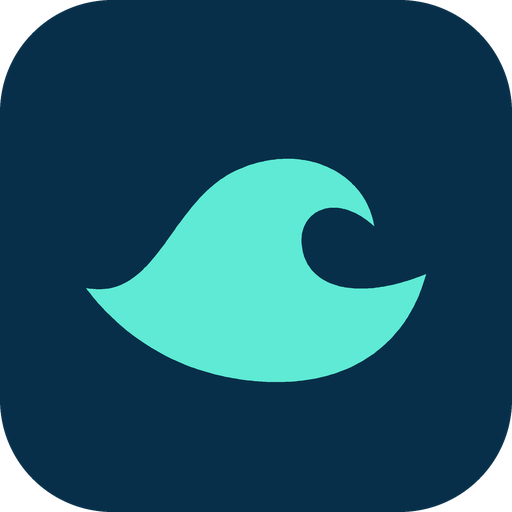
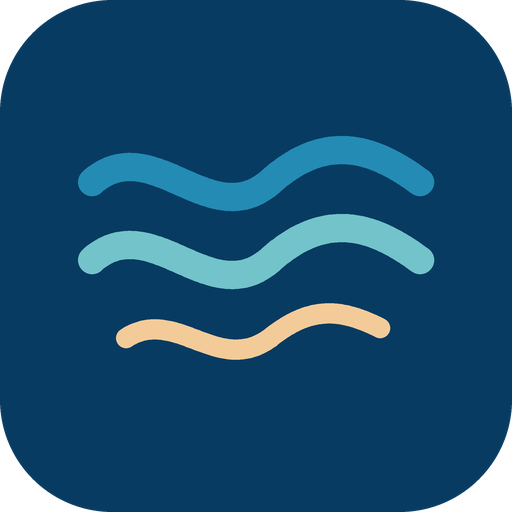
Refine SEA identity with ocean ripples and warm reflections

Changed region(s): [[0.125, 0.25, 0.875, 0.75]]

diff --git a/scripts/build_brand.py b/scripts/build_brand.py
@@ -1,30 +1,29 @@
-"""Render SEA's original vector wave mark and PNG exports. Requires Pillow (build only)."""
+"""Render the original SEA sea-surface mark. Pillow is needed only for PNG builds."""
 from pathlib import Path
 from PIL import Image, ImageDraw, ImageFont
 
 ROOT = Path(__file__).resolve().parents[1]
 ASSETS = ROOT / "assets"
-BACKGROUND = "#082F49"
-FOREGROUND = "#5EEAD4"
-START = (43, 157)
-CURVES = [((80, 164), (85, 111), (121, 97)),
-          ((153, 84), (183, 100), (187, 126)),
-          ((167, 108), (148, 119), (151, 137)),
-          ((154, 157), (179, 164), (213, 150)),
-          ((204, 184), (177, 204), (139, 204)),
-          ((97, 204), (64, 185), START)]
+BACKGROUND = "#083B61"
+FOREGROUND = "#72C3CA"
+# Open, flowing wave lines; no closed curl or claw-like silhouette.
+WAVES = [
+    ((46, 91), [((76, 65), (105, 117), (135, 91)), ((164, 65), (188, 75), (210, 91))], "#238BB4", 14),
+    ((46, 130), [((76, 104), (105, 156), (135, 130)), ((164, 104), (188, 114), (210, 130))], FOREGROUND, 14),
+    ((63, 169), [((88, 153), (109, 188), (135, 169)), ((155, 153), (170, 154), (190, 164))], "#F2CB99", 10),
+]
 
 
-def wave_points():
-    points = [START]
-    p0 = START
-    for p1, p2, p3 in CURVES:
-        for step in range(1, 65):
-            t = step / 64
-            points.append(tuple((1-t)**3*p0[i] + 3*(1-t)**2*t*p1[i] +
+def points(start, curves):
+    result = [start]
+    p0 = start
+    for p1, p2, p3 in curves:
+        for step in range(1, 97):
+            t = step / 96
+            result.append(tuple((1-t)**3*p0[i] + 3*(1-t)**2*t*p1[i] +
                                 3*(1-t)*t*t*p2[i] + t**3*p3[i] for i in (0, 1)))
         p0 = p3
-    return points
+    return result
 
 
 def icon(size):
@@ -32,7 +31,12 @@ def icon(size):
     image = Image.new("RGBA", (size * 4, size * 4))
     draw = ImageDraw.Draw(image)
     draw.rounded_rectangle((0, 0, size*4-1, size*4-1), radius=56*scale, fill=BACKGROUND)
-    draw.polygon([(x*scale, (y-13)*scale) for x, y in wave_points()], fill=FOREGROUND)
+    for start, curves, color, width in WAVES:
+        coords = [(x*scale, y*scale) for x, y in points(start, curves)]
+        draw.line(coords, fill=color, width=round(width*scale), joint="curve")
+        radius = width*scale/2
+        for x, y in coords:
+            draw.ellipse((x-radius, y-radius, x+radius, y+radius), fill=color)
     return image.resize((size, size), Image.Resampling.LANCZOS)
 
 
@@ -45,13 +49,15 @@ def font(size):
 
 def main():
     ASSETS.mkdir(exist_ok=True)
-    path = f"M{START[0]} {START[1]} " + " ".join(
-        "C" + " ".join(str(n) for point in curve for n in point) for curve in CURVES) + " Z"
+    paths = []
+    for start, curves, color, width in WAVES:
+        path = f"M{start[0]} {start[1]} " + " ".join(
+            "C" + " ".join(str(n) for point in curve for n in point) for curve in curves)
+        paths.append(f'<path d="{path}" fill="none" stroke="{color}" stroke-width="{width}" stroke-linecap="round"/>')
     (ASSETS / "sea-icon.svg").write_text(
         '<svg xmlns="http://www.w3.org/2000/svg" width="256" height="256" viewBox="0 0 256 256" role="img" aria-labelledby="title">'
-        '<title id="title">SEA wave</title>'
-        f'<rect width="256" height="256" rx="56" fill="{BACKGROUND}"/>'
-        f'<path d="{path}" transform="translate(0 -13)" fill="{FOREGROUND}"/></svg>\n', encoding="utf-8")
+        '<title id="title">SEA ocean ripples</title>'
+        f'<rect width="256" height="256" rx="56" fill="{BACKGROUND}"/>' + ''.join(paths) + '</svg>\n', encoding="utf-8")
     icon(512).save(ASSETS / "sea-icon.png")
     card = Image.new("RGB", (1280, 640), BACKGROUND)
     mark = icon(256)

diff --git a/scripts/configure_local_plugin.py b/scripts/configure_local_plugin.py
@@ -33,7 +33,7 @@ def configure(plugin: Path, database: Path):
     manifest["interface"].update(displayName="SEA", shortDescription="Learn from tasks through chat.",
         longDescription="Local preferences, project experience, and evidence-based candidate comparison. No telemetry.",
         developerName="Li Siye", defaultPrompt=["Use SEA for this task.", "What has SEA learned from this project?"],
-        brandColor="#0EA5B7", composerIcon="./assets/sea-icon.png", logo="./assets/sea-icon.png",
+        brandColor="#238BB4", composerIcon="./assets/sea-icon.png", logo="./assets/sea-icon.png",
         logoDark="./assets/sea-icon.png")
     config = {"mcpServers": {"sea": {"command": str(Path(sys.executable).resolve()),
               "args": [str(runtime / "sea_mcp.py"), "--db", str(database.expanduser().resolve())]}}}

diff --git a/docs/branding-and-environments.md b/docs/branding-and-environments.md
@@ -2,7 +2,7 @@
 
 ## Wave identity
 
-SEA uses an original minimal mint wave on deep ocean blue. `assets/sea-icon.svg` is the scalable source export, `assets/sea-icon.png` is the Codex plugin image, and `assets/sea-social.png` is a repository banner/social-card asset. The mark is embedded in the GitHub README. The social-card file does not itself configure GitHub's repository social-preview setting. `scripts/build_brand.py` regenerates the images using Pillow as a build-only dependency.
+SEA uses an original minimal sea-surface mark: blue and cyan ripples with a small warm-gold reflection on deep ocean blue. `assets/sea-icon.svg` is the scalable source export, `assets/sea-icon.png` is the Codex plugin image, and `assets/sea-social.png` is a repository banner/social-card asset. The mark is embedded in the GitHub README. The social-card file does not itself configure GitHub's repository social-preview setting. `scripts/build_brand.py` regenerates the images using Pillow as a build-only dependency.
 
 The desired instance progression is **drop → lake → sea → wave**. Keep this as a future per-instance profile visualization. Codex's plugin manifest currently supplies static image paths; the integration has no verified mechanism to update its displayed icon per user's learning state. The current plugin and GitHub therefore use the requested wave fallback. No badge claims a level of intelligence.
 
